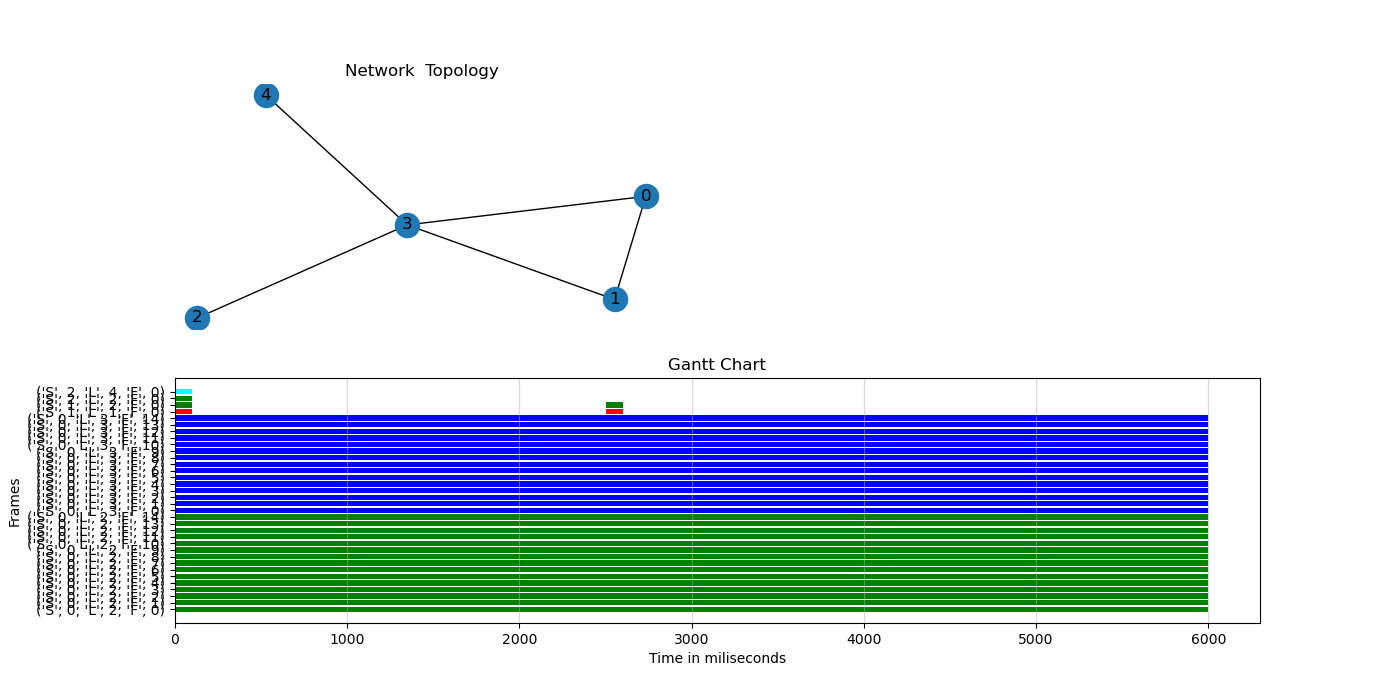
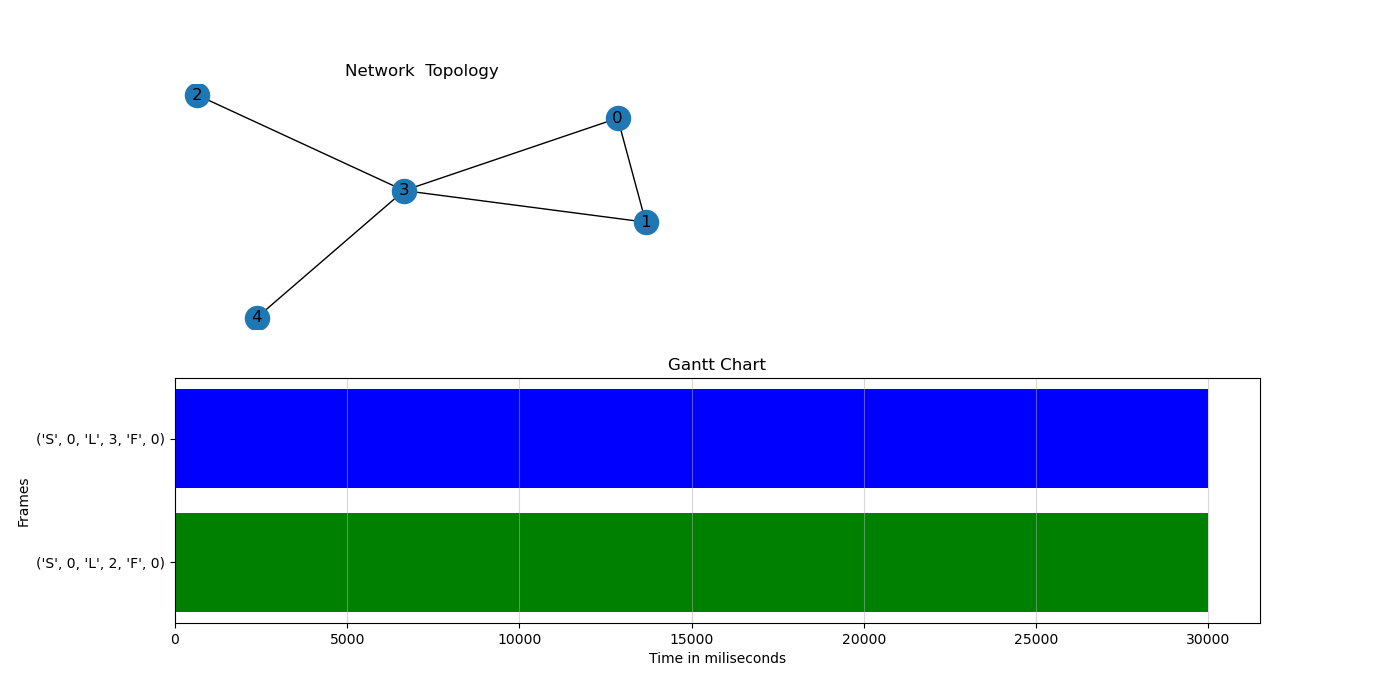
28 de agosto

diff --git a/Solutions_Visualizer.py b/Solutions_Visualizer.py
@@ -37,7 +37,6 @@ def ILP_results_visualizer(instance, Model_Descriptor_vector):
     #print("############### This is the set of queues ######################")
     for link in instance.Links:
         print("The number of queues of link ", link, "is",instance.Num_Queues[link].value)
-        print("heloo ",link)
 
     #print("############### This is the set of queues per stream and link######################")
 #    for stream in instance.Streams:
@@ -105,11 +104,6 @@ def gantt_chart_generator(Result_offsets, Repetitions, Streams_Period) :
 
 
 def information_generator(Num_of_Frames, Streams_Period, Link_order_Descriptor, Network_links, Streams_links_paths):
-    print("Num_of_Frames      " +str(Num_of_Frames))
-    #print("Streams_Period     "+str(Streams_Period))
-    #print("Link_order_Descriptor       "+str (Link_order_Descriptor))
-    #print("Network_links          "+str(Network_links))
-    #print("Streams_links_paths       "+str(Streams_links_paths))
     plt.subplot(222)
     plt.text(0.1, 0.9, "Network-links: \n" + str(Network_links), bbox=dict(facecolor='red', alpha=0.5))
     plt.text(0.1, 0.7, "Frames per stream: \n" + str(Num_of_Frames), bbox=dict(facecolor='red', alpha=0.5))
@@ -172,7 +166,7 @@ def Evaluation_function(Number_of_edges, Connection_probability,Number_of_Stream
         #print("Network_Topology  network   "+str(network))
         all_paths_matrix = all_paths_matrix_generator(Network_nodes, network)
         #print("Djikstra  all paths matrix    "+str(all_paths_matrix))
-
+    
         Streams_paths = Streams_paths_generator(all_paths_matrix, Stream_Source_Destination)
         Streams_links_paths = Streams_links_paths_generator(Streams_paths)
         Link_order_Descriptor = Link_order_Descriptor_generator(Streams_links_paths, Network_links)
@@ -181,7 +175,10 @@ def Evaluation_function(Number_of_edges, Connection_probability,Number_of_Stream
         #Streams_size , Streams_Period, Streams_Period_list, Deathline_Stream, Number_of_Streams = Random_Stream_size_and_period_generator(Number_of_Streams)
         Streams_size , Streams_Period, Streams_Period_list, Deathline_Stream, Number_of_Streams = Read2(Number_of_Streams)
         #Hyperperiod = Hyperperiod_generator(Streams_Period_list)
-        Hyperperiod = 6000
+        Hyperperiod = 30000
+        print("Hyperperiod", Hyperperiod       )
+        print("Streams_Period ", Streams_Period)
+        print("Deathline_Stream ", Deathline_Stream)
         Frames_per_Stream, Max_frames, Num_of_Frames = Frames_per_Stream_generator(Streams_size)
         ################################################################
         # Preprocessing
@@ -206,7 +203,6 @@ def Evaluation_function(Number_of_edges, Connection_probability,Number_of_Stream
         final_time = time.time()
         ################################################################
         Feasibility_indicator, Result_offsets, Clean_offsets_collector, Results_latencies  = ILP_results_visualizer(instance, Model_Descriptor_vector)
-        print("Result_offsets", Result_offsets)
         df = gantt_chart_generator(Result_offsets, Repetitions, Streams_Period)
         information_generator(Num_of_Frames, Streams_Period, Link_order_Descriptor, Network_links, Streams_links_paths)
         dataframe_printer(instance, Clean_offsets_collector, Results_latencies, Feasibility_indicator, Adjacency_Matrix, Stream_Source_Destination,
